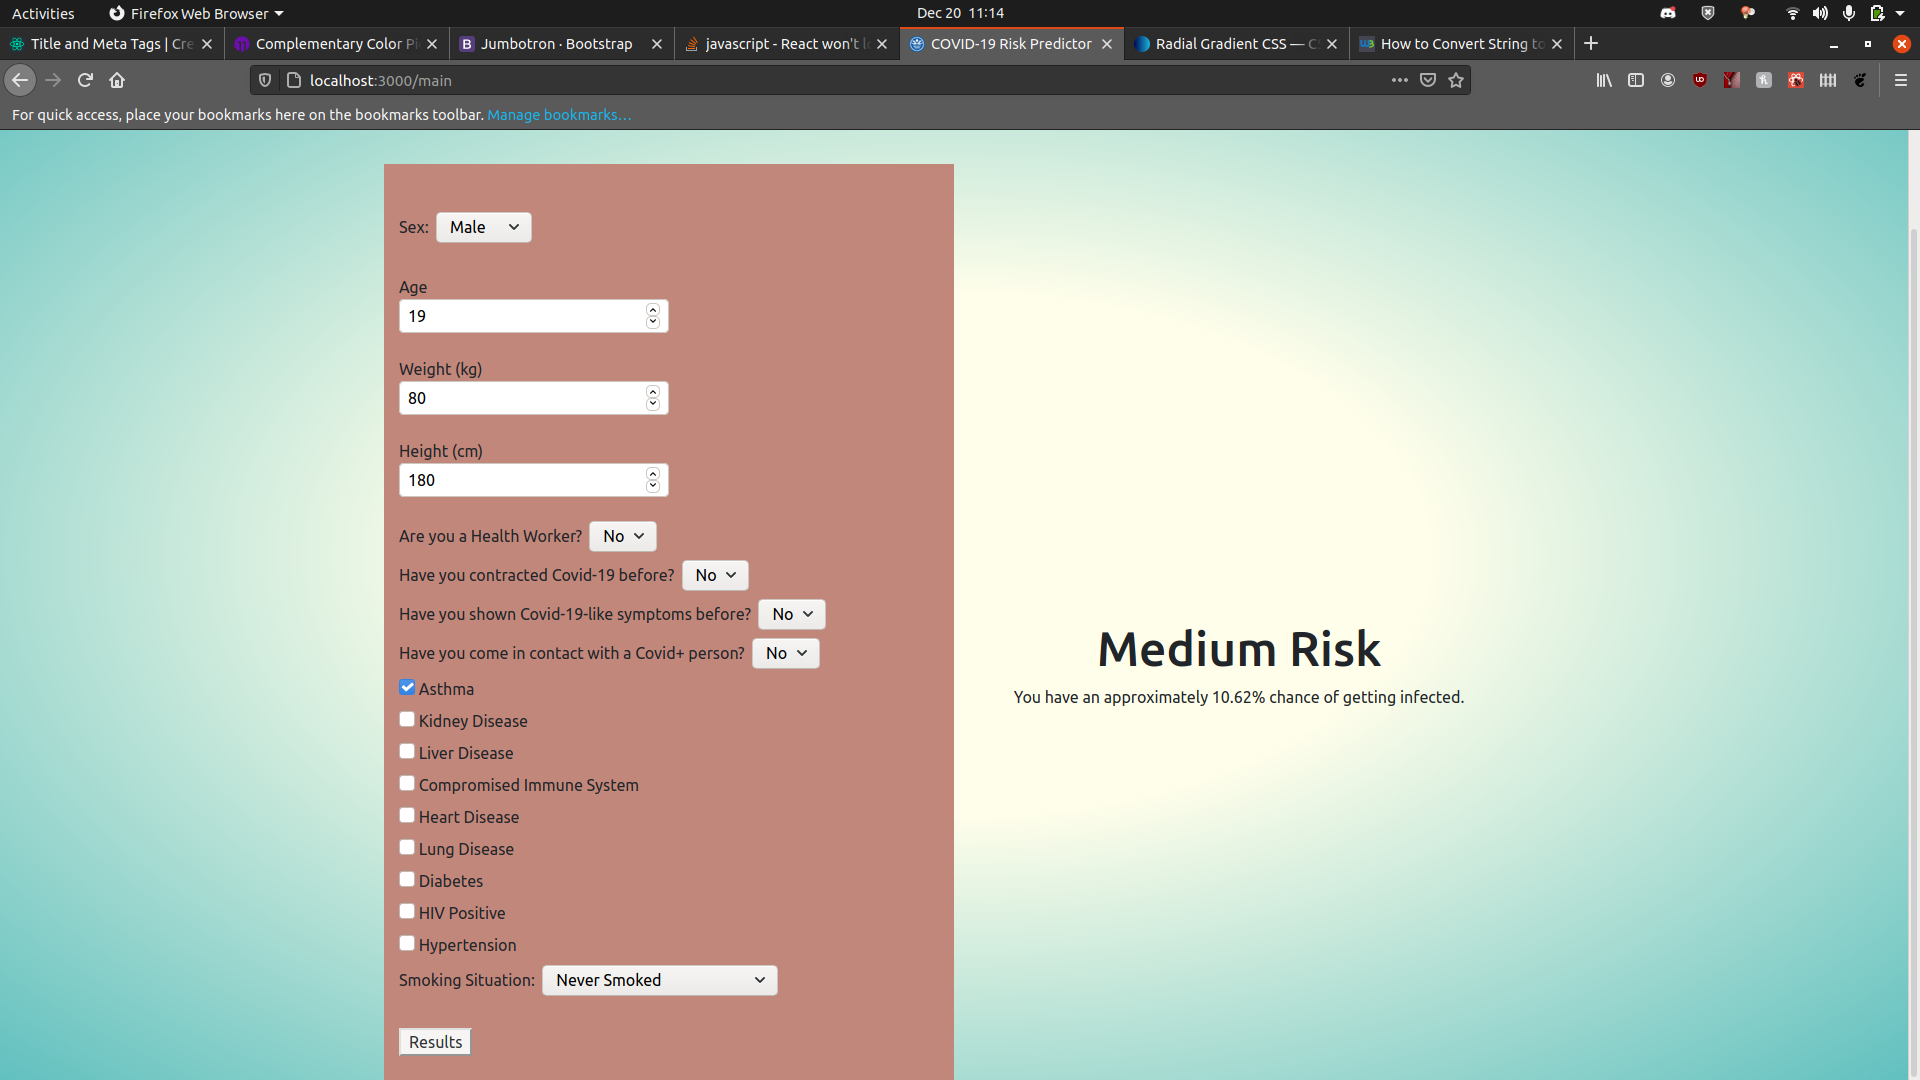
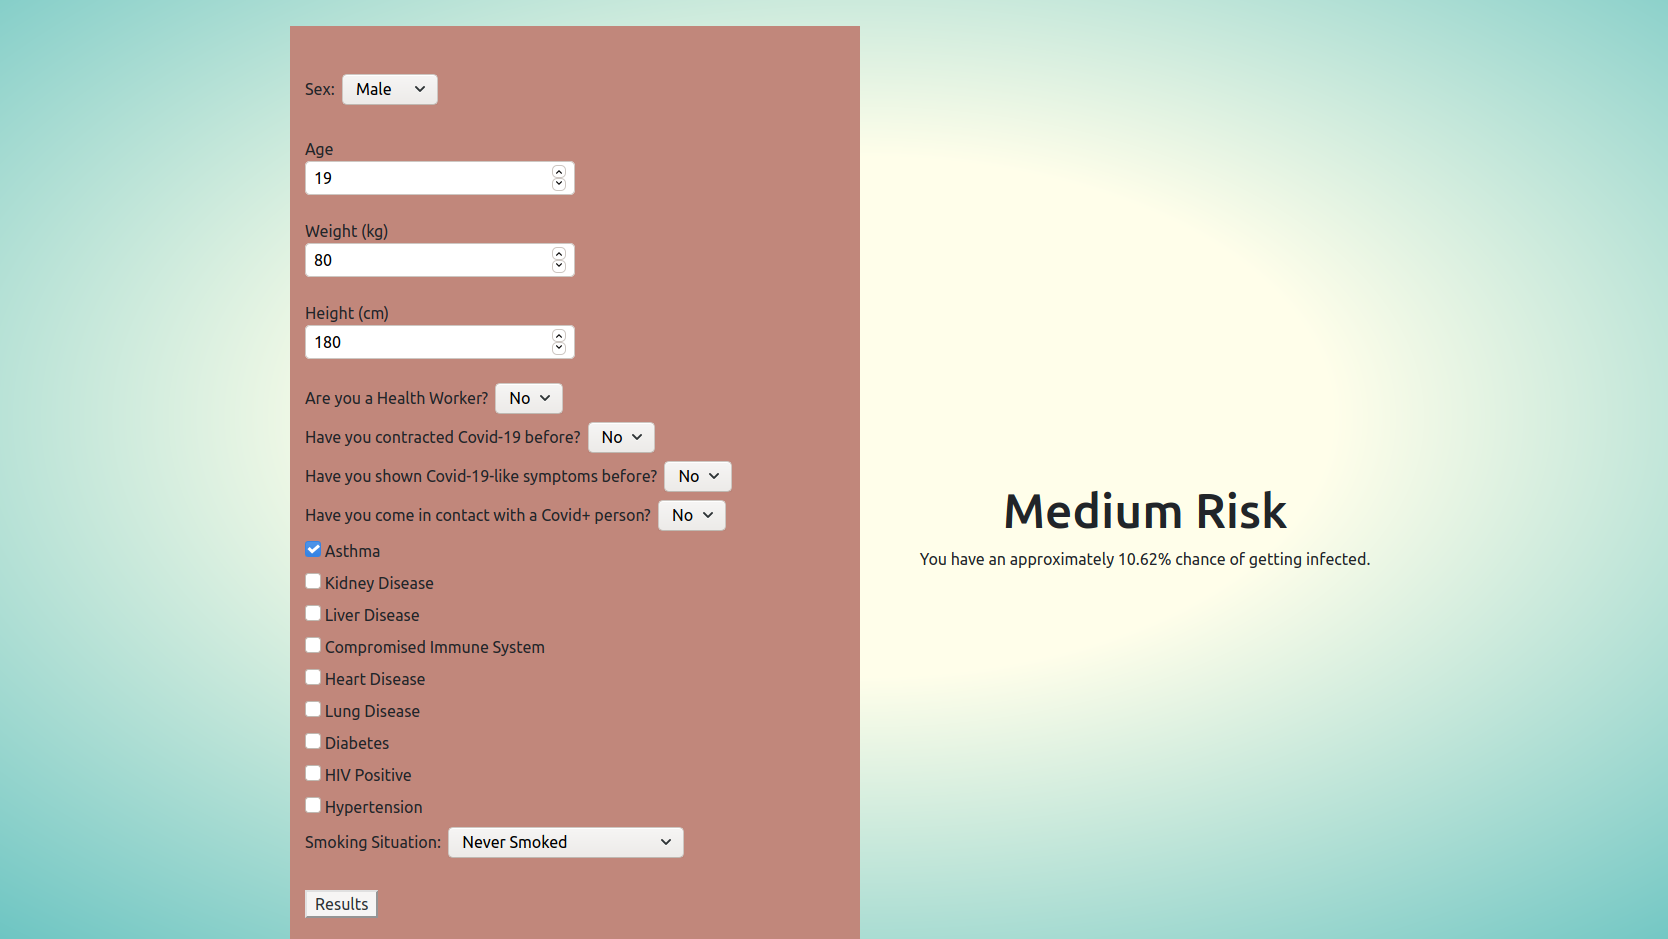
Final Commit

diff --git a/frontend/src/Main.js b/frontend/src/Main.js
@@ -2,6 +2,7 @@ import React from "react";
 import './Main.css';
 import Reservation from "./Form";
 import { Container, Row} from "reactstrap";
+import doctor from './img/doctor.png'
 
 class Main extends React.Component {
     constructor(props) {
@@ -26,6 +27,7 @@ class Main extends React.Component {
     render(){
         if(this.state.page===0){
             var form = <Reservation pageChange={()=>this.setState(state => ({page: state.page + 1}))} valuesAdd={(e)=>this.setState({obj: e})} />;
+            
         }
         else {
             const res = document.getElementById('res');
@@ -38,15 +40,15 @@ class Main extends React.Component {
             .then(response=>response.json())
             .then(data => 
                 {console.log(data) ;
-                 res.innerHTML=`<h2>${data.risk}</h2><div>You have an approximately ${parseFloat(data.per).toFixed(2)}% chance of getting infected.</div>`;
+                 res.innerHTML=`<h2>${data.risk}</h2><h4>You have an approximately ${parseFloat(data.per).toFixed(2)}% chance of getting infected.</h4>`;
                 });
-
         }
         return(
             <Container className="mt-5 text-justify">
                 <Row>
-                    <div className="col-6" id="opaque">{form}</div>
-                    <div className="col-6 text-center" id="res"></div>
+                    <div className="col-md-6 col-sm-12 text-light" id="opaque">{form}</div>
+                    <div className="col-md-6 col-sm-12 text-center"><div id="res"><h2 className="ph">Please Enter Your Details</h2></div>
+                    <span><img src={doctor} className="doctor"></img></span></div>
                 </Row>
             </Container>
         );

diff --git a/frontend/src/App.js b/frontend/src/App.js
@@ -1,6 +1,7 @@
 import React from "react";
 import {NavLink} from 'react-router-dom';
 import Typewriter from 'typewriter-effect';
+import dashboard from './img/dashboard.png';
 import './App.css';
 
 const first = "Calculate your risk of contracting Covid-19 in a few clicks"
@@ -9,9 +10,9 @@ const second = "Predictions using State-of-the-art models"
 function App() {
   return (
       <div className="container landing">
-      <h1 className="Display text-center text-info mx-auto fade-in"><Typewriter options = {{delay: 50, autoStart:true, strings:[first, second], pauseFor:3000, loop: true}}  /></h1>
+      <h1 className="Display text-center text-info text-dark mx-auto fade-in"><Typewriter options = {{delay: 50, autoStart:true, strings:[first, second], pauseFor:3000, loop: true}}  /></h1>
       <div className="but"><NavLink className="link mx-auto mt-3 mb-4 justify-content-center" to="/main"><button className="btn btn-success ">Start Now!</button></NavLink></div>
-      <img id ="hero" src className = "img-fluid mt-auto fade-in-long" alt=""/>
+      <img src={dashboard} className = "img-fluid mt-auto fade-in-long landing" alt=""/>
       </div>
   );
 }

diff --git a/frontend/src/App.css b/frontend/src/App.css
@@ -1,7 +1,34 @@
+@import url('https://fonts.googleapis.com/css2?family=Lobster&display=swap');
+
 .but {
-  margin-top: 5px;
+  margin: 15px;
   display: flex;
   justify-content: center;
   align-items: center;
   height: 50px;
+}
+
+.landing {
+  height: 60%;
+  width: 100%;
+  margin-top: 10px;
+  margin-bottom: 5px;
+  position: relative;
+  display: flex;
+  flex-direction: column;
+  font-family: "Open Sans", sans-serif;
+  /* font-family: "Monoton", cursive; */
+}
+
+.fade-in-long {
+  animation: fadeIn ease 7s;
+  -webkit-animation: fadeIn ease 7s;
+  -moz-animation: fadeIn ease 7s;
+  -o-animation: fadeIn ease 7s;
+  -ms-animation: fadeIn ease 7s;
+  border: 10px solid;
+}
+
+h1 {
+  font-family: 'Lobster', cursive;;
 }

diff --git a/frontend/src/Main.css b/frontend/src/Main.css
@@ -44,11 +44,32 @@
       background-color: #C1877B;
   }
   #res {
-      margin-top: 40%;
+      margin-top: 30%;
   }
   h2{
       font-size: 3em;
+      margin-top: -20%;
   }
+
+.ph {
+  margin-left: 10%;
+  animation: fadeIn ease 7s;
+  -webkit-animation: fadeIn ease 7s;
+  -moz-animation: fadeIn ease 7s;
+  -o-animation: fadeIn ease 7s;
+  -ms-animation: fadeIn ease 7s;
+}
+
+.doctor {
+  height: 70%;
+  width: 100%;
+  animation: fadeIn ease 7s;
+  -webkit-animation: fadeIn ease 7s;
+  -moz-animation: fadeIn ease 7s;
+  -o-animation: fadeIn ease 7s;
+  -ms-animation: fadeIn ease 7s;
+}
+
   @keyframes dotFlashing {
     0% {
       background-color: #4499a5;

diff --git a/frontend/src/Navbar.css b/frontend/src/Navbar.css
@@ -19,7 +19,3 @@ img {
 .nav-link {
   margin: 0 15px;
 }
-
-#navb {
-  background-color: antiquewhite;;
-} 

diff --git a/ML/app.py b/ML/app.py
@@ -82,13 +82,13 @@ def sent(sex : int, smoking: int, age: int, bmi: float, covid19_positive:int, co
     pred = model.predict(tst)
     print(pred[0])
     if pred[0] >= 80.0:
-      dct = {"risk":"Very High Risk"}
+      dct = {"risk":"Very High Risk", "per":str(pred[0])}
     elif pred[0] >= 30.0 and pred[0]< 80.0:
-      dct = {"risk":"High Risk"}
+      dct = {"risk":"High Risk", "per":str(pred[0])}
     elif pred[0] >= 10.0 and pred[0]< 30.0:
-      dct = {"risk":"Medium Risk"}
+      dct = {"risk":"Medium Risk", "per":str(pred[0])}
     else:
-      dct = {"risk":"Low Risk"}
+      dct = {"risk":"Low Risk", "per":str(pred[0])}
     jsonData = jsonable_encoder(dct)
     return JSONResponse(jsonData)
     
